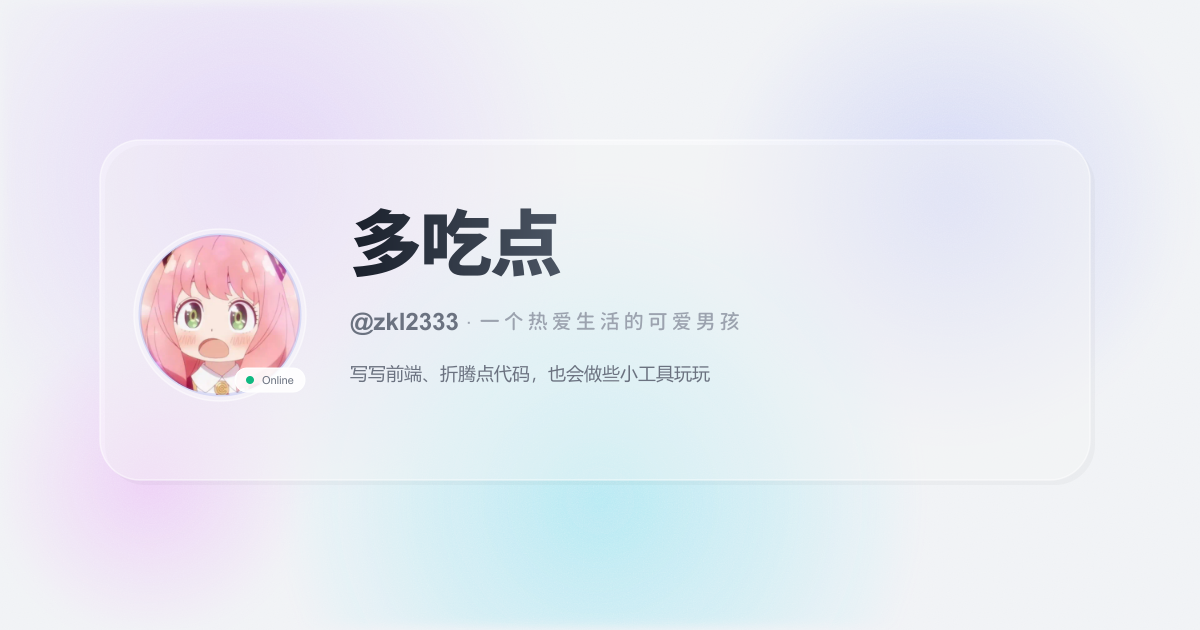
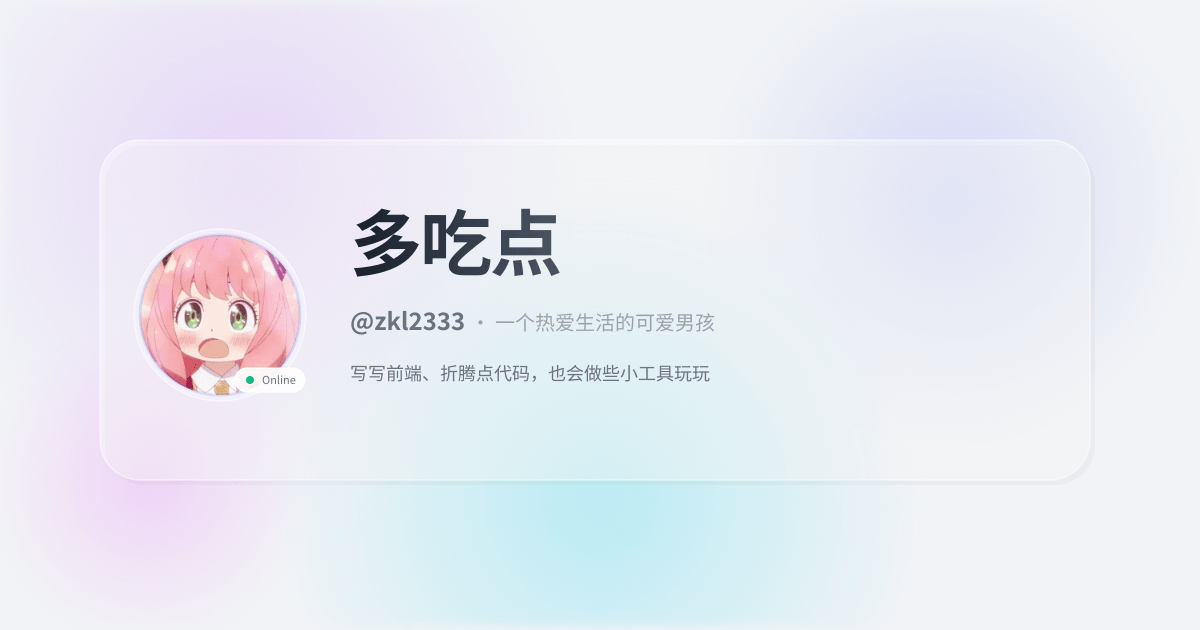
feat: 优化 OG 图片中文字体支持
- CI: 在 GitHub Actions 中显式安装中文字体 (fonts-noto-cjk)
- 脚本: 添加字体检测逻辑，缺失时给出清晰提示
- 优化 OG 图片 PNG 压缩 (palette + compressionLevel 9)
- 重新生成所有图标

Changed region(s): [[0.2775, 0.4825, 0.6167, 0.5429], [0.3083, 0.3317, 0.4625, 0.4524], [0.2775, 0.573, 0.5858, 0.6032]]

diff --git a/scripts/generate-icons.ts b/scripts/generate-icons.ts
@@ -2,6 +2,7 @@ import sharp from 'sharp'
 import https from 'https'
 import fs from 'fs'
 import path from 'path'
+import { execSync } from 'child_process'
 import { GRAVATAR_MIRRORS, getHash } from '../src/utils/gravatar.js'
 
 // ========================================
@@ -19,10 +20,49 @@ const PERSONAL_INFO = {
 
 // 图标尺寸配置
 const ICON_SIZES = {
-  favicon: [16, 32, 48],           // 标准 favicon 尺寸
-  appleTouchIcon: 180,             // iOS/Apple 图标
-  pwaIcon: [192, 512],             // PWA/Android 图标
+  favicon: [16, 32, 48], // 标准 favicon 尺寸
+  appleTouchIcon: 180, // iOS/Apple 图标
+  pwaIcon: [192, 512], // PWA/Android 图标
   ogImage: { width: 1200, height: 630 }, // Open Graph 图片
+}
+
+/**
+ * 检测系统是否已安装 CJK 中文字体。
+ * 如未安装，输出警告提示（不在脚本中执行系统安装，遵循职责分离原则）。
+ */
+function checkCjkFontsForOgImage(): boolean {
+  if (process.platform !== 'linux') return true
+
+  const has = (cmd: string) => {
+    try {
+      execSync(cmd, { stdio: 'ignore' })
+      return true
+    } catch {
+      return false
+    }
+  }
+
+  const hasFcList = has('command -v fc-list')
+
+  const hasNotoCjk = (() => {
+    if (!hasFcList) return false
+    try {
+      const out = execSync('fc-list : family', { encoding: 'utf8' })
+      return /Noto\s+Sans\s+CJK|Noto\s+Sans\s+SC|Source\s+Han\s+Sans/i.test(out)
+    } catch {
+      return false
+    }
+  })()
+
+  if (hasNotoCjk) {
+    console.log('✅ 已检测到中文字体')
+    return true
+  }
+
+  console.warn('⚠  警告：系统缺少中文字体，OG 图片中文可能显示为方块')
+  console.warn('👉  CI 环境：请在 workflow 中添加 "sudo apt-get install -y fontconfig fonts-noto-cjk"')
+  console.warn('👉  本地环境：请手动运行 "sudo apt-get install -y fontconfig fonts-noto-cjk"')
+  return false
 }
 
 /**
@@ -30,6 +70,8 @@ const ICON_SIZES = {
  */
 function generateOgImageSvg(avatarBase64: string): string {
   const { name, username, tagline, bio } = PERSONAL_INFO
+
+  const fontStack = "'Noto Sans SC','Noto Sans CJK SC','Source Han Sans SC','PingFang SC','Microsoft YaHei',system-ui,-apple-system,sans-serif" // rely on system fonts (CI will install)
 
   return `
 <svg width="1200" height="630" xmlns="http://www.w3.org/2000/svg">
@@ -114,7 +156,7 @@ function generateOgImageSvg(avatarBase64: string): string {
       <rect x="-35" y="-12" width="70" height="24" rx="12" fill="none" stroke="rgba(255, 255, 255, 1)" stroke-width="1"/>
       <!-- 绿点 -->
       <circle cx="-20" cy="0" r="4" fill="#10b981"/>
-      <text x="-8" y="4" font-family="Arial, sans-serif" font-size="11" fill="#6b7280" font-weight="500">Online</text>
+      <text x="-8" y="4" font-family="${fontStack}" font-size="11" fill="#6b7280" font-weight="500">Online</text>
     </g>
   </g>
 
@@ -127,16 +169,16 @@ function generateOgImageSvg(avatarBase64: string): string {
         <stop offset="100%" style="stop-color:#4b5563;stop-opacity:1" />
       </linearGradient>
     </defs>
-    <text x="350" y="270" font-family="Arial, sans-serif" font-size="72" font-weight="900" fill="url(#titleGradient)" letter-spacing="-2">${name}</text>
+    <text x="350" y="270" font-family="${fontStack}" font-size="72" font-weight="900" fill="url(#titleGradient)" letter-spacing="-2">${name}</text>
 
     <!-- 副标题 "@zkl2333 · 一个热爱生活的可爱男孩" -->
-    <text x="350" y="330" font-family="Arial, sans-serif" font-size="24" fill="#6b7280" font-weight="500">
+    <text x="350" y="330" font-family="${fontStack}" font-size="24" fill="#6b7280" font-weight="500">
       <tspan font-weight="600">@${username}</tspan>
       <tspan fill="#9ca3af" font-size="20"> · ${tagline}</tspan>
     </text>
 
     <!-- 描述文字 -->
-    <text x="350" y="380" font-family="Arial, sans-serif" font-size="18" fill="#6b7280">
+    <text x="350" y="380" font-family="${fontStack}" font-size="18" fill="#6b7280">
       <tspan x="350" dy="0">${bio.line1}</tspan>
     </text>
   </g>
@@ -215,6 +257,9 @@ async function downloadFromFastestMirror(
 async function generateIcons() {
   console.log('🎨 开始生成图标...')
 
+  // Preflight: check CJK fonts availability
+  checkCjkFontsForOgImage()
+
   try {
     // 1. 从最快的镜像下载 Gravatar 头像
     const imageBuffer = await downloadFromFastestMirror(PERSONAL_INFO.email, 512, 'identicon')
@@ -275,9 +320,9 @@ async function generateIcons() {
     // 生成 SVG 名片
     const ogSvg = generateOgImageSvg(avatarBase64)
 
-    // 将 SVG 转换为 PNG
+    // 将 SVG 转换为 PNG，并做一次体积优化
     await sharp(Buffer.from(ogSvg))
-      .png()
+      .png({ compressionLevel: 9, palette: true })
       .toFile(ogImagePath)
 
     console.log(`✅ og-image.png (${ICON_SIZES.ogImage.width}x${ICON_SIZES.ogImage.height}) 已生成（名片样式）`)
